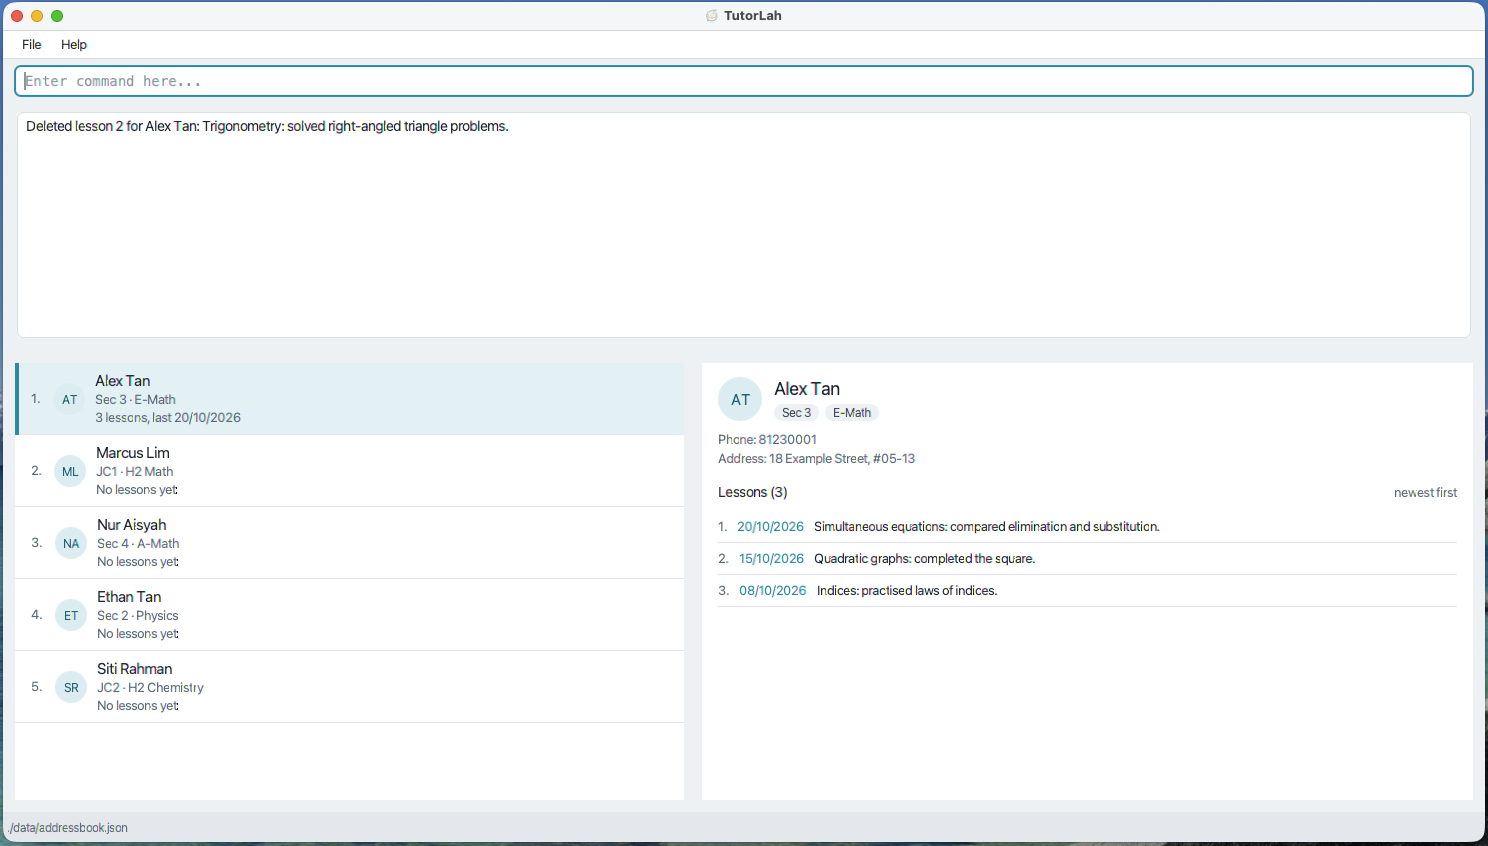
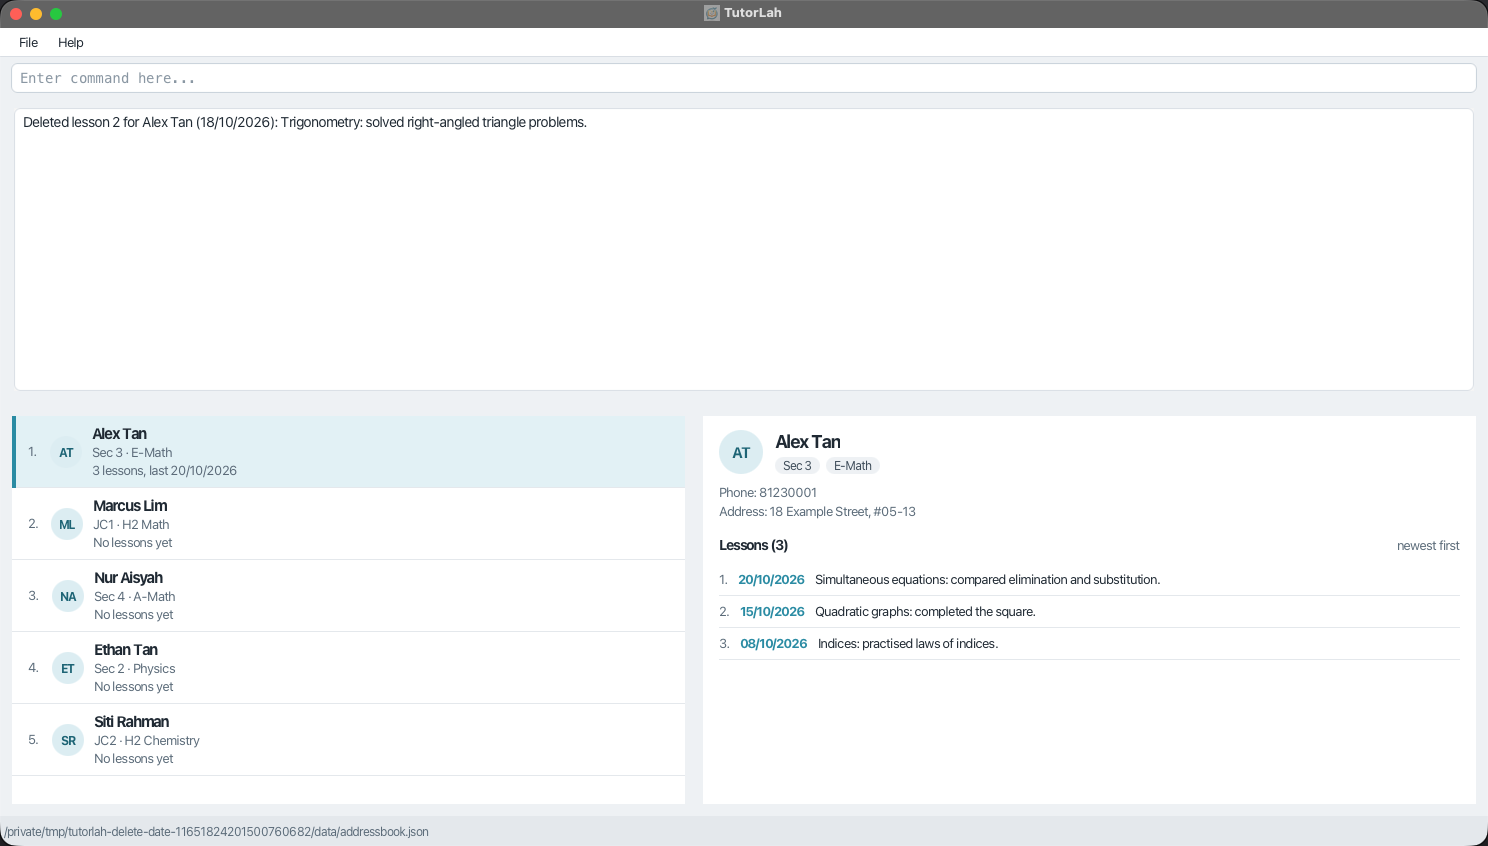
Show dates in lesson deletion feedback
Identify the deleted record when lesson content is repeated.
Keep undated records clear and align tests and documentation.

Changed region(s): [[0.0, 0.0, 1.0, 1.0], [0.0, 0.4303, 0.8038, 0.922], [0.0, 0.3688, 0.0309, 0.3995]]

diff --git a/src/test/java/seedu/address/ui/PersonListPanelTest.java b/src/test/java/seedu/address/ui/PersonListPanelTest.java
@@ -1,5 +1,6 @@
 package seedu.address.ui;
 
+import static org.junit.jupiter.api.Assertions.assertDoesNotThrow;
 import static org.junit.jupiter.api.Assertions.assertEquals;
 import static org.junit.jupiter.api.Assertions.assertFalse;
 import static org.junit.jupiter.api.Assertions.assertNotNull;
@@ -200,7 +201,7 @@ public class PersonListPanelTest {
                 assertEquals(0, list.getSelectionModel().getSelectedIndex());
                 assertFeedback(root, "editlesson 1 3 c/Algebra revised",
                         "Edited lesson 3 for Amy (now lesson 3). (undated): Algebra revised", false);
-                assertFeedback(root, "deletelesson 1 1", "Deleted lesson 1 for Amy: Algebra", false);
+                assertFeedback(root, "deletelesson 1 1", "Deleted lesson 1 for Amy (undated): Algebra", false);
                 assertFeedback(root, "findlesson 1 alg",
                         "Matching lesson records for Amy (1):\n2. (undated): Algebra revised", false);
                 assertFeedback(root, "view 1",
@@ -919,6 +920,44 @@ public class PersonListPanelTest {
     }
 
     /**
+     * Shows the selected duplicate's date in the real command box and saves the remaining history.
+     */
+    @Test
+    public void commandBox_deleteLesson_reportsDatedAndUndatedRecords(@TempDir Path directory) throws Exception {
+        runOnJavaFxThread(() -> {
+            ModelManager model = clickTestModel();
+            Person amy = model.getFilteredPersonList().getFirst();
+            Person ben = model.getFilteredPersonList().get(1);
+            Lesson newer = new Lesson("Fractions", LocalDate.of(2026, 10, 21));
+            Person datedAmy = new PersonBuilder(amy).withLessons("Legacy").withFlag("Bring worksheet").build()
+                    .withLessonAdded(new Lesson("Fractions", LocalDate.of(2026, 10, 20)))
+                    .withLessonAdded(newer);
+            model.setPerson(amy, datedAmy);
+            JsonAddressBookStorage storage = new JsonAddressBookStorage(directory.resolve("students.json"));
+            Logic logic = clickTestLogic(model, storage, directory);
+            MainWindow window = createClickableWindow(logic, directory);
+            try {
+                Region root = (Region) window.getPrimaryStage().getScene().getRoot();
+                enterClickTestCommand(root, "find amy");
+                assertFeedback(root, "deletelesson 1 2",
+                        "Deleted lesson 2 for Amy (20/10/2026): Fractions", false);
+                assertDetail(root, "Amy", "Lessons (2)");
+                assertEquals(List.of("1. 21/10/2026 Fractions", "2. (undated) Legacy"), lessonRows(root));
+                assertFeedback(root, "deletelesson 1 2", "Deleted lesson 2 for Amy (undated): Legacy", false);
+                Person expected = new PersonBuilder(datedAmy).withLessons().build().withLessonAdded(newer);
+                assertDetail(root, "Amy", "Lessons (1)");
+                assertEquals(List.of("1. 21/10/2026 Fractions"), lessonRows(root));
+                assertEquals(List.of(expected), model.getFilteredPersonList());
+                assertEquals(List.of(expected, ben), model.getAddressBook().getPersonList());
+                assertEquals(List.of(expected, ben),
+                        assertDoesNotThrow(() -> storage.readAddressBook().orElseThrow()).getPersonList());
+            } finally {
+                window.getPrimaryStage().close();
+            }
+        });
+    }
+
+    /**
      * Deletes through the command box and verifies that typed views and card clicks show the updated history.
      */
     @Test
@@ -933,7 +972,7 @@ public class PersonListPanelTest {
                 TextArea result = (TextArea) root.lookup("#resultDisplay");
                 enterClickTestCommand(root, "view 1");
                 enterClickTestCommand(root, "deletelesson 1 1");
-                assertEquals("Deleted lesson 1 for Amy: Algebra", result.getText());
+                assertEquals("Deleted lesson 1 for Amy (undated): Algebra", result.getText());
                 String historyAfterDelete = "Lesson records for Amy (2):\n1. (undated): Geometry"
                         + "\n2. (undated): Algebra";
                 enterClickTestCommand(root, "view 1");

diff --git a/src/test/java/seedu/address/logic/commands/DeleteLessonCommandTest.java b/src/test/java/seedu/address/logic/commands/DeleteLessonCommandTest.java
@@ -8,6 +8,7 @@ import static seedu.address.testutil.Assert.assertThrows;
 import static seedu.address.testutil.TypicalPersons.ALICE;
 import static seedu.address.testutil.TypicalPersons.BOB;
 
+import java.time.LocalDate;
 import java.util.HashSet;
 import java.util.List;
 
@@ -18,6 +19,7 @@ import seedu.address.commons.core.index.Index;
 import seedu.address.logic.Messages;
 import seedu.address.model.Model;
 import seedu.address.model.ModelManager;
+import seedu.address.model.lesson.Lesson;
 import seedu.address.model.person.Person;
 import seedu.address.testutil.PersonBuilder;
 
@@ -65,6 +67,29 @@ public class DeleteLessonCommandTest {
     @Test
     public void execute_oldestLesson_removesOldestOccurrence() throws Exception {
         assertDeletion(3, List.of("Geometry", "Algebra"), "Algebra");
+    }
+
+    /**
+     * Reports the selected duplicate's date while preserving the filter, flag and other records.
+     */
+    @Test
+    public void execute_sameContentOnDifferentDates_reportsSelectedDate() throws Exception {
+        Lesson older = new Lesson("Fractions", LocalDate.of(2026, 10, 20));
+        Lesson newer = new Lesson("Fractions", LocalDate.of(2026, 10, 21));
+        Person datedStudent = new PersonBuilder(STUDENT).withLessons().withFlag("Bring worksheet").build()
+                .withLessonAdded(older).withLessonAdded(newer);
+        model.setPerson(STUDENT, datedStudent);
+        model.updateFilteredPersonList(person -> person.getName().equals(datedStudent.getName()));
+
+        CommandResult result = new DeleteLessonCommand(FIRST, SECOND).execute(model);
+
+        assertEquals("Deleted lesson 2 for " + STUDENT.getName() + " (20/10/2026): Fractions",
+                result.getFeedbackToUser());
+        Person expected = new PersonBuilder(datedStudent).withLessons().build().withLessonAdded(newer);
+        assertEquals(expected, result.getStudent().orElseThrow());
+        assertEquals(List.of(expected), model.getFilteredPersonList());
+        assertEquals(List.of(expected, OTHER_STUDENT), model.getAddressBook().getPersonList());
+        assertEquals(List.of(older, newer), datedStudent.getLessons());
     }
 
     /**
@@ -176,7 +201,8 @@ public class DeleteLessonCommandTest {
      */
     private void assertDeletion(int displayedLesson, List<String> remaining, String deletedContent) throws Exception {
         CommandResult result = new DeleteLessonCommand(FIRST, Index.fromOneBased(displayedLesson)).execute(model);
-        assertEquals("Deleted lesson " + displayedLesson + " for " + STUDENT.getName() + ": " + deletedContent,
+        assertEquals("Deleted lesson " + displayedLesson + " for " + STUDENT.getName()
+                + " (undated): " + deletedContent,
                 result.getFeedbackToUser());
         Person expected = new PersonBuilder(STUDENT).withLessons(remaining.toArray(String[]::new)).build();
         assertEquals(expected, result.getStudent().orElseThrow());

diff --git a/src/main/java/seedu/address/logic/commands/DeleteLessonCommand.java b/src/main/java/seedu/address/logic/commands/DeleteLessonCommand.java
@@ -25,7 +25,7 @@ public class DeleteLessonCommand extends Command {
             + "Parameters: STUDENT_INDEX LESSON_INDEX (both positive integers without leading zeros)\n"
             + "Use view STUDENT_INDEX to check the current lesson numbers (newest first).\n"
             + "Example: " + COMMAND_WORD + " 2 1";
-    public static final String MESSAGE_DELETE_LESSON_SUCCESS = "Deleted lesson %1$d for %2$s: %3$s";
+    public static final String MESSAGE_DELETE_LESSON_SUCCESS = "Deleted lesson %1$d for %2$s %3$s: %4$s";
 
     private static final Logger logger = LogsCenter.getLogger(DeleteLessonCommand.class);
 
@@ -68,8 +68,10 @@ public class DeleteLessonCommand extends Command {
         model.setPerson(student, studentWithoutLesson);
         logger.fine("Removed lesson " + lessonIndex.getOneBased()
                 + " from displayed student " + studentIndex.getOneBased());
+        String lessonDate = Messages.formatLessonDate(deletedLesson);
+        String dateLabel = deletedLesson.getDate().isPresent() ? "(" + lessonDate + ")" : lessonDate;
         return new CommandResult(String.format(MESSAGE_DELETE_LESSON_SUCCESS,
-                lessonIndex.getOneBased(), student.getName(), deletedLesson), studentWithoutLesson);
+                lessonIndex.getOneBased(), student.getName(), dateLabel, deletedLesson), studentWithoutLesson);
     }
 
     /**

diff --git a/src/test/java/seedu/address/logic/commands/FindLessonCommandIntegrationTest.java b/src/test/java/seedu/address/logic/commands/FindLessonCommandIntegrationTest.java
@@ -135,7 +135,7 @@ public class FindLessonCommandIntegrationTest {
                 model.getFilteredPersonList().getFirst().getLessons().get(1));
         assertEquals(new Lesson("Algebra", DAY.plusDays(2)),
                 model.getFilteredPersonList().getFirst().getLessons().get(3));
-        assertEquals("Deleted lesson 2 for Amy Tan: Algebra", feedback("deletelesson 1 2"));
+        assertEquals("Deleted lesson 2 for Amy Tan (04/01/2020): Algebra", feedback("deletelesson 1 2"));
         assertEquals("Matching lesson records for Amy Tan (2):"
                 + "\n3. 02/01/2020: Algebra corrected\n4. (undated): Algebra legacy",
                 feedback("findlesson 1 algebra"));

diff --git a/src/test/java/seedu/address/storage/LessonPersistenceTest.java b/src/test/java/seedu/address/storage/LessonPersistenceTest.java
@@ -172,7 +172,7 @@ public class LessonPersistenceTest {
     public void restart_afterDeletingLesson_selectedOccurrenceRemovedOthersKept() throws Exception {
         startWith(new PersonBuilder(ALEX).withLessons("Algebra", "Geometry", "Algebra").build(),
                 new PersonBuilder(BEA).withLessons("Calculus").build());
-        assertEquals("Deleted lesson 1 for Alex Lim: Algebra",
+        assertEquals("Deleted lesson 1 for Alex Lim (undated): Algebra",
                 logic.execute("deletelesson 1 1").getFeedbackToUser());
         ReadOnlyAddressBook reloaded = restart();
         assertEquals(new PersonBuilder(ALEX).withLessons("Algebra", "Geometry").build(),

diff --git a/src/test/java/seedu/address/logic/commands/FindCommandIntegrationTest.java b/src/test/java/seedu/address/logic/commands/FindCommandIntegrationTest.java
@@ -157,7 +157,7 @@ public class FindCommandIntegrationTest {
     @Test
     public void execute_findThenDeleteLesson_keepsStudentFilterAndOtherSavedStudents() throws Exception {
         logic.execute("find ali");
-        assertEquals("Deleted lesson 1 for Alicia Lim: Calculus",
+        assertEquals("Deleted lesson 1 for Alicia Lim (undated): Calculus",
                 logic.execute("deletelesson 1 1").getFeedbackToUser());
         Person aliciaWithoutLessons = new PersonBuilder(ALICIA).withLessons().build();
         assertEquals(List.of(aliciaWithoutLessons), logic.getFilteredPersonList());

diff --git a/docs/DeveloperGuide.md b/docs/DeveloperGuide.md
@@ -237,7 +237,14 @@ Failed commands skip these rules, so an error never changes the panel. A failed 
 
 `view` numbers lessons newest first, whereas `Person#getLessons` stores them oldest first. `Person#withLessonAdded` inserts each lesson in date order, keeping same-date records in logging order. The command therefore converts a one-based displayed lesson number to a zero-based stored position using `lessons.size() - lessonIndex.getOneBased()`. An assertion protects this internal conversion after the user-supplied index has been validated. Removing by position deletes only the selected occurrence even when two lessons have identical content and dates.
 
-`Person#withLessonRemoved` returns a new student with the selected record omitted and every student field and remaining lesson preserved. `Model#setPerson` replaces the old value in the backing `UniquePersonList`; the active filtered view continues to show the same matching students. The command then returns a confirmation containing the displayed lesson number, student name and deleted content. `LogicManager` persists the updated address book through the normal save path shown in the architecture sequence diagram.
+`Person#withLessonRemoved` returns a new student with the selected record omitted
+and every student field and remaining lesson preserved. `Model#setPerson` replaces
+the old value in the backing `UniquePersonList`; the active filtered view continues
+to show the same matching students.
+The confirmation includes the displayed lesson number, student name, lesson date
+and deleted content. `Messages#formatLessonDate` supplies the date, shown in parentheses,
+or `(undated)` for a legacy record. `LogicManager` persists the updated address book
+through the normal save path shown in the architecture sequence diagram.
 
 Deleting the final lesson therefore leaves the student present with an empty history. A later deletion attempt stops before mutation and reports `No lessons logged yet for NAME.`.
 
@@ -1108,18 +1115,22 @@ Use a separate test directory with `data/addressbook.json` containing `{"persons
 ```text
 add n/Amy Tan p/81230011 addr/11 Example Street l/Sec 3 sub/E-Math
 add n/Ben Lim p/81230012 addr/12 Example Street l/JC1 sub/H2 Math
-log 1 c/Algebra
-log 1 c/Geometry
-log 1 c/Algebra
-log 2 c/Calculus
+log 1 c/Algebra date/18/10/2026
+log 1 c/Geometry date/19/10/2026
+log 1 c/Algebra date/20/10/2026
+log 2 c/Calculus date/20/10/2026
 ```
 
 1. Enter `view 1`.<br>
-   Expected: Amy's three records appear as `1. DD/MM/YYYY: Algebra`, `2. DD/MM/YYYY: Geometry`, `3. DD/MM/YYYY: Algebra`, each with today's date.
+   Expected: Amy's records appear as `1. 20/10/2026: Algebra`,
+   `2. 19/10/2026: Geometry`, `3. 18/10/2026: Algebra`.
 1. Enter `deletelesson 1 1`, then `view 1`.<br>
-   Expected: `Deleted lesson 1 for Amy Tan: Algebra`, followed by Geometry as lesson 1 and the older Algebra as lesson 2. This proves that only the newest duplicate was removed.
+   Expected: `Deleted lesson 1 for Amy Tan (20/10/2026): Algebra`, followed by
+   Geometry as lesson 1 and the older Algebra as lesson 2. Only the newest duplicate
+   was removed, and the confirmation identifies its date.
 1. Enter `deletelesson 1 2`, then `view 1`.<br>
-   Expected: `Deleted lesson 2 for Amy Tan: Algebra`, then only Geometry remains. Amy's details and Ben's Calculus record are unchanged.
+   Expected: `Deleted lesson 2 for Amy Tan (18/10/2026): Algebra`, then only Geometry
+   remains. Amy's details and Ben's Calculus record are unchanged.
 1. Try `deletelesson 1 0`, `deletelesson 1 01`, `deletelesson 1 2`, `deletelesson 0 1`, `deletelesson`, `deletelesson 1` and `deletelesson 1 1 extra`.<br>
    Expected: the relevant lesson-index, student-index or usage error appears. Amy's remaining Geometry record is unchanged after every rejected command.
 1. Exit and restart, enter `view 1`, then `deletelesson 1 1` and `view 1`.<br>
@@ -1127,7 +1138,13 @@ log 2 c/Calculus
 1. Enter `deletelesson 1 1` while Amy's history is empty.<br>
    Expected: `No lessons logged yet for Amy Tan.`, with both students and saved data unchanged.
 1. Enter `find ben`, then `deletelesson 1 1` and `view 1`.<br>
-   Expected: `Deleted lesson 1 for Ben Lim: Calculus`, while only Ben's card remains displayed. The view reports `No lessons logged yet for Ben Lim.`. Enter `list` to confirm both students remain; the search filter was retained during deletion and no unrelated student changed.
+   Expected: `Deleted lesson 1 for Ben Lim (20/10/2026): Calculus`, while only Ben's
+   card remains displayed. The view reports `No lessons logged yet for Ben Lim.`.
+   Enter `list` to confirm both students remain; deletion retained the filter and
+   no unrelated student changed.
+
+For a legacy record without a date, the confirmation uses `(undated)` once, for
+example `Deleted lesson 1 for Amy Tan (undated): Algebra`.
 
 Automated coverage is in `DeleteLessonCommandParserTest`, `DeleteLessonCommandTest`, `PersonTest`, `LessonPersistenceTest`, `AddressBookParserTest` and the command-box deletion case in `PersonListPanelTest`. `FindCommandIntegrationTest` checks typed search followed by lesson deletion, retaining the filter and saving all students. Persistence tests use temporary directories.
 

diff --git a/tutorlah-agent-brief.md b/tutorlah-agent-brief.md
@@ -99,7 +99,7 @@ ask the team. Do not guess.
 |---|---|---|
 | Add | `add n/NAME p/PHONE addr/ADDRESS l/LEVEL sub/SUBJECT` | `New student added: {NAME}; Phone: {PHONE}; Address: {ADDRESS}; Level: {LEVEL}; Subject: {SUBJECT}` |
 | Delete | `delete INDEX` | `Deleted student: {NAME}; Phone: {PHONE}; Address: {ADDRESS}; Level: {LEVEL}; Subject: {SUBJECT}` |
-| Delete lesson | `deletelesson STUDENT_INDEX LESSON_INDEX` | `Deleted lesson {LESSON_INDEX} for {NAME}: {CONTENT}` |
+| Delete lesson | `deletelesson STUDENT_INDEX LESSON_INDEX` | `Deleted lesson {LESSON_INDEX} for {NAME} ({DATE}): {CONTENT}` |
 | Edit lesson | `editlesson STUDENT_INDEX LESSON_INDEX [c/CONTENT] [date/DATE]` | `Edited lesson {LESSON_INDEX} for {NAME} (now lesson {NEW_INDEX}). {DATE}: {CONTENT}` |
 | List | `list` | `Listed {COUNT} students.` (`Listed 1 student.` for one) or `No students found. Use add to create a student.` |
 | Edit | `edit INDEX [n/NAME] [p/PHONE] [addr/ADDRESS] [l/LEVEL] [sub/SUBJECT]` | `Edited student: {NAME}; Phone: {PHONE}; Address: {ADDRESS}; Level: {LEVEL}; Subject: {SUBJECT}` |
@@ -191,8 +191,9 @@ Other messages:
 **Lesson deletion:** `deletelesson` uses the displayed student index and
 the lesson number from `view` (newest first). Remove only that occurrence,
 even if contents repeat. Keep the student, remaining lessons and current
-filter. Deleting the last lesson leaves an empty history. Show confirmation;
-the details panel shows the remaining records.
+filter. Deleting the last lesson leaves an empty history. The confirmation
+includes the lesson date as `(DD/MM/YYYY)`, or `(undated)` for a legacy record.
+The details panel shows the remaining records.
 
 **Lesson editing (#145):** `editlesson` uses the same two indexes and index errors as `deletelesson`, and needs at least one of `c/` and `date/` (otherwise `At least one field to edit must be provided.`). Content and dates follow the `log` rules, including the future-date message. A content-only edit, or one that gives the current date, keeps the lesson's position and number. A new date removes the lesson and adds it again in date order, after the lessons already on that date, so its number can change; the confirmation reports the old and new numbers. An undated lesson stays undated unless `date/` is given, and a date cannot be removed. An edit that changes nothing gives `The lesson already has those details.`. The student, other lessons and the current filter are kept.
 

diff --git a/docs/UserGuide.md b/docs/UserGuide.md
@@ -454,7 +454,9 @@ Format: `deletelesson STUDENT_INDEX LESSON_INDEX`
 * Both indexes must be positive whole numbers without leading zeros. Exactly two arguments are required, in the order shown.
 * Use `view STUDENT_INDEX` before deleting to check the lesson number. Numbers are positions, not permanent IDs: logging or deleting a lesson, or changing a lesson's date with `editlesson`, can change them. Running `view` first is recommended, not required.
 * Only the selected occurrence is deleted, even if several lessons have identical content. Remaining lessons keep their order and are renumbered from 1 on the next view.
-* Confirmation: `Deleted lesson LESSON_INDEX for NAME: CONTENT`. The details panel shows the remaining records, renumbered from 1.
+* Confirmation: `Deleted lesson LESSON_INDEX for NAME (DD/MM/YYYY): CONTENT`.
+  Older records without a date show `(undated)` instead. The details panel shows
+  the remaining records, renumbered from 1.
 * Student details, other students' records and the current student filter are unchanged. Deleting the final lesson keeps the student with an empty history.
 * Missing arguments, non-integers such as `abc`, `+1` or `1.5`, and extra
   arguments produce an invalid-command-format message with usage. Zero,
@@ -465,7 +467,11 @@ Format: `deletelesson STUDENT_INDEX LESSON_INDEX`
   `No lessons logged yet for NAME.`. Nothing is deleted.
 * Deletion is saved automatically and cannot be undone in the app. `delete INDEX` still deletes the entire student and all their lessons; it is a different command.
 
-Example: after logging `Algebra`, then `Geometry` for student 2 on 18/10/2026, `view 2` shows `1. 18/10/2026: Geometry` and `2. 18/10/2026: Algebra`. `deletelesson 2 1` deletes Geometry and confirms `Deleted lesson 1 for NAME: Geometry`. A subsequent `view 2` shows only `1. 18/10/2026: Algebra`.
+Example: after logging `Algebra`, then `Geometry` for student 2 on 18/10/2026,
+`view 2` shows `1. 18/10/2026: Geometry` and `2. 18/10/2026: Algebra`.
+`deletelesson 2 1` deletes Geometry and confirms
+`Deleted lesson 1 for NAME (18/10/2026): Geometry`. A subsequent `view 2` shows
+only `1. 18/10/2026: Algebra`.
 
 **Screenshot example:** after the past-date logging example above, `view 1` shows Alex Tan's four lessons in date order. The Trigonometry lesson dated 18/10/2026 is lesson 2:
 

diff --git a/tutorlah-context.md b/tutorlah-context.md
@@ -166,6 +166,7 @@ students. Flag state is persisted; filter state is not.
 
 `deletelesson` removes one record using the lesson number shown by `view`
 (newest first). The student and their other lesson records are kept.
+The confirmation includes the lesson date, or `(undated)` for a legacy record.
 An empty history reports `No lessons logged yet for NAME.`.
 
 Added in v1.5:
